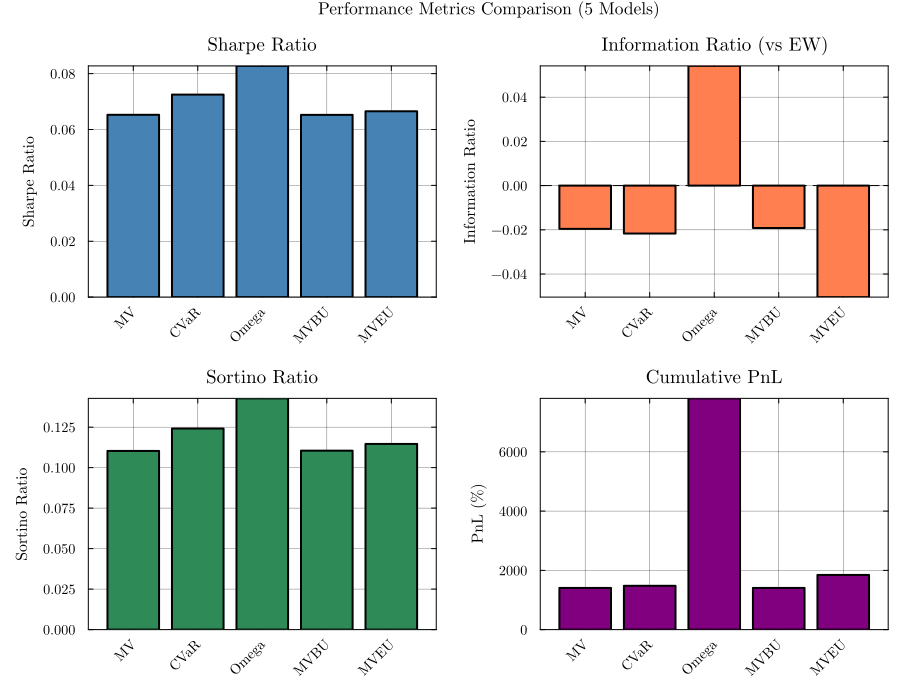
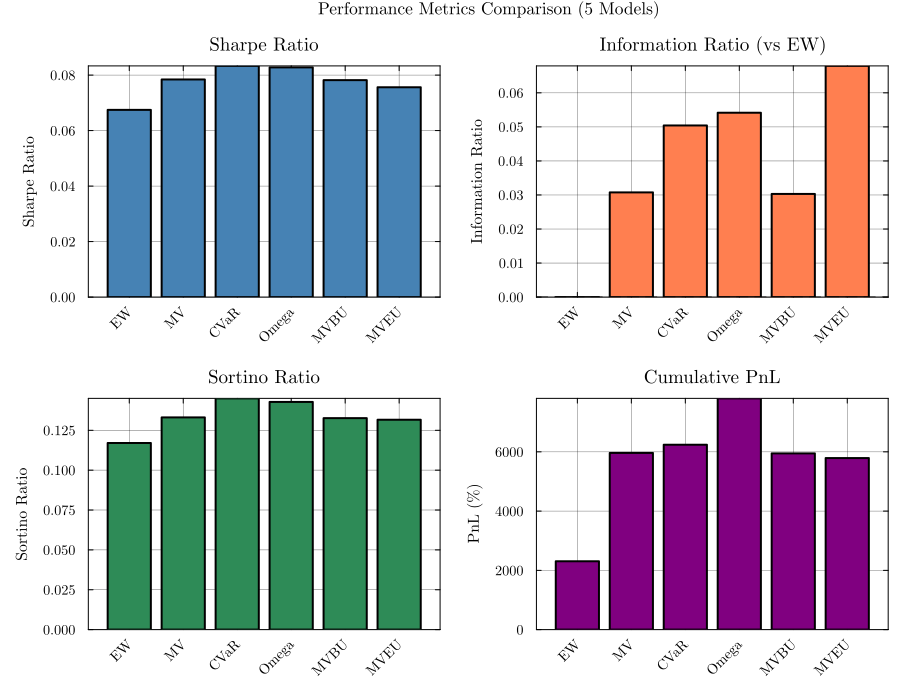
Regenerate figures with quintile-based target results
All figures now reflect:
- CVaR as winner (Sharpe 0.0833 daily)
- Theme 2: Simplified capacity chart with legend at top
- Theme 3: Uses Sortino ratio instead of Sharpe
- Theme 4: Fixed bubble annotation positioning
- All models beat benchmark with quintile targets

Added Theme 5 (covariance denoising) to executive summary:
- Minimal impact on synthetic data (well-behaved distribution)
- MV +0.8%, MVBU +1.3%, others unchanged
- Condition number improved 1.24x

diff --git a/portfolio-allocation-models/synthetic_data_validation/docs/EXECUTIVE_SUMMARY.md b/portfolio-allocation-models/synthetic_data_validation/docs/EXECUTIVE_SUMMARY.md
@@ -132,6 +132,27 @@ With quintile targets, all models achieve positive IR (vs. only Omega before tun
 
 ---
 
+### Theme 5: Covariance Denoising (Raw vs Denoised)
+**Research Question**: Does Marcenko-Pastur denoising improve portfolio optimization?
+
+#### Minimal Impact on Synthetic Data
+Since synthetic returns are generated from a known multivariate distribution, the sample covariance already captures the true structure with minimal estimation noise.
+
+| Model | Sharpe Change | Note |
+|-------|---------------|------|
+| MV    | +0.8%         | Slight improvement |
+| MVBU  | +1.3%         | Slight improvement |
+| MVEU  | 0.0%          | No change |
+| CVaR  | 0.0%          | Uses returns directly |
+| Omega | 0.0%          | Uses returns directly |
+
+- **Condition number**: Improved 1.24x (103.7 → 83.8)
+- **Signal eigenvalues**: 3 of 30 (56.4% variance explained)
+
+**Implication**: Denoising has greater impact on noisy real-world data than on well-behaved synthetic data.
+
+---
+
 ## Strategic Recommendations
 
 ### Investment Decision Framework
